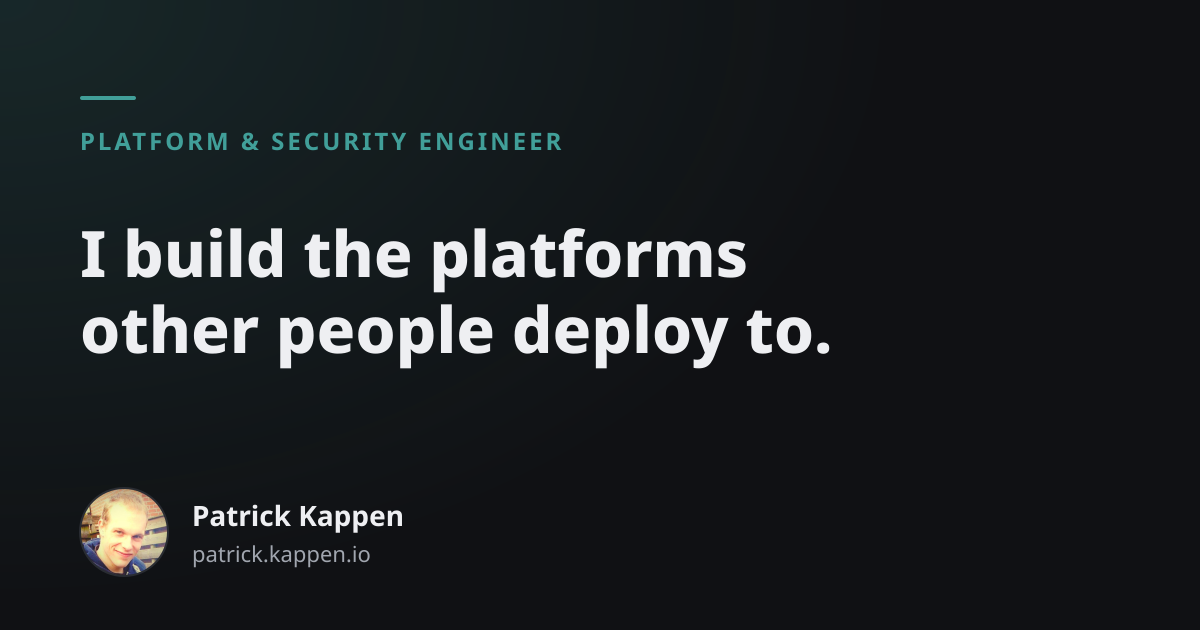
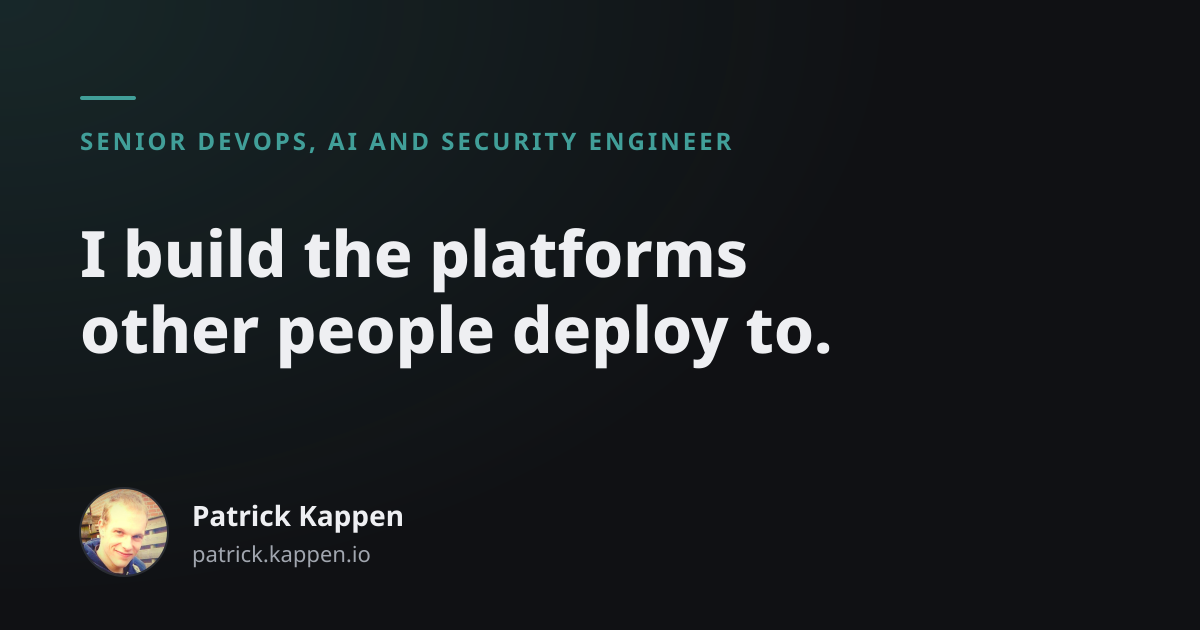
feat(profile): link certificates to Credly and use the new role

Changed region(s): [[0.0617, 0.2111, 0.6167, 0.2413]]

diff --git a/src/content.config.ts b/src/content.config.ts
@@ -121,7 +121,11 @@ const site = defineCollection({
     tagline: z.string(),
     intro: z.string(),
     short: z.string(),
-    certifications: z.array(z.string()),
+    certifications: z.array(
+      z
+        .union([z.string(), z.object({ code: z.string(), name: z.string(), issued: z.string(), url: z.string() })])
+        .transform((cert) => (typeof cert === "string" ? { code: cert, name: cert, issued: "", url: "" } : cert)),
+    ),
     studying: z.array(z.string()),
     links: z.array(link),
     nixosMachines: z.number().int().positive(),

diff --git a/src/styles/global.css b/src/styles/global.css
@@ -1926,6 +1926,11 @@
     color: var(--accent);
     font-size: 0.85rem;
     font-weight: 700;
+    text-decoration: none;
+  }
+
+  a.cert:hover {
+    border-color: var(--accent);
   }
 
   .focus-icon {

diff --git a/scripts/og-image.py b/scripts/og-image.py
@@ -59,7 +59,7 @@ def main() -> None:
     if len(sys.argv) < 3:
         sys.exit(__doc__)
     output, title = Path(sys.argv[1]), sys.argv[2]
-    eyebrow = sys.argv[3] if len(sys.argv) > 3 else "Platform & security engineer"
+    eyebrow = sys.argv[3] if len(sys.argv) > 3 else "Senior DevOps, AI and security engineer"
     subprocess.run(["rsvg-convert", "-w", "1200", "-h", "630", "-o", str(output)], input=svg(title, eyebrow).encode(), check=True)
 
 

diff --git a/.github/scripts/update_readme.py b/.github/scripts/update_readme.py
@@ -220,7 +220,7 @@ def render_site(content):
         "",
         "## Certifications",
         "",
-        bullet("Certified", site["certifications"]),
+        bullet("Certified", [cert if isinstance(cert, str) else f"[{cert['code']}]({cert['url']})" for cert in site["certifications"]]),
         bullet("Working towards", site["studying"]),
     ]
     return "\n".join(lines)

diff --git a/README.md b/README.md
@@ -3,7 +3,7 @@
 ```nix
 {
   patrick = {
-    role     = "Platform & security engineer";
+    role     = "Senior DevOps, AI and security engineer";
     at       = "SLTN, Azure Expert MSP";
     builds   = [ "identity" "delivery" "recovery" "AI infrastructure" ];
     writes   = [ "Terraform" "Bicep" "PowerShell" "Python" "Rust" "Nix" ];
